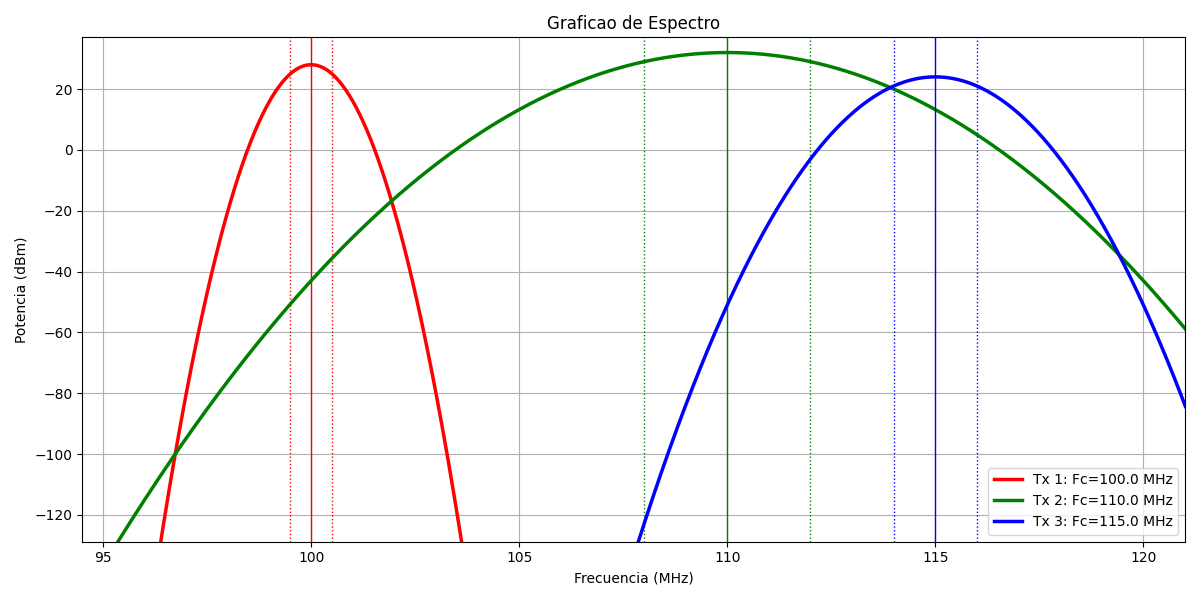
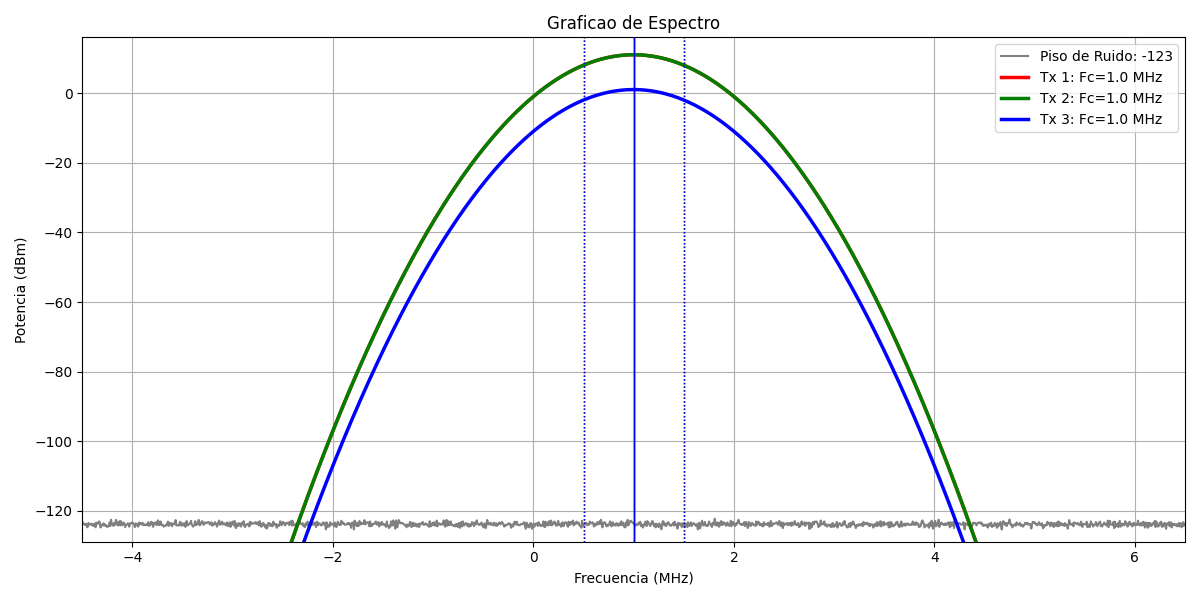
se añade piso de ruido

diff --git a/spectrum_app.py b/spectrum_app.py
@@ -3,7 +3,7 @@ import matplotlib.pyplot as plt
 import numpy as np
 import io
 import base64
-
+import math
 
 app = Flask(__name__)
 
@@ -47,7 +47,7 @@ def generar_grafica():
     k = 1.38*10**-23 #onstante de Boltzmann
     #noise_floor = 10 * math.log10(k*temperatura*Bw) + 30 # en dBm
     noise_floor = 10 * np.log10(k * temperatura * Bw) + 30
-
+    pisoRuidoTrunc = math.trunc(noise_floor)
     colors = ['red', 'green', 'blue']
 
     # rango de frecuencia
@@ -64,10 +64,13 @@ def generar_grafica():
     np.random.seed(42)
     noise = noise_floor + np.random.normal(0, 0.5, size=frequencies.shape)
 
+
     # grafico
     plt.figure(figsize=(12, 6))
+    plt.plot(frequencies, noise, color='gray', label=f"Piso de Ruido: {pisoRuidoTrunc}")
 
     max_p_max = 0
+
     for idx, s in enumerate(signals):
         max_p_max = max(max_p_max,s["power"])
         power = longitud_signal(frequencies, s["fc"], s["bw"], s["power"])
